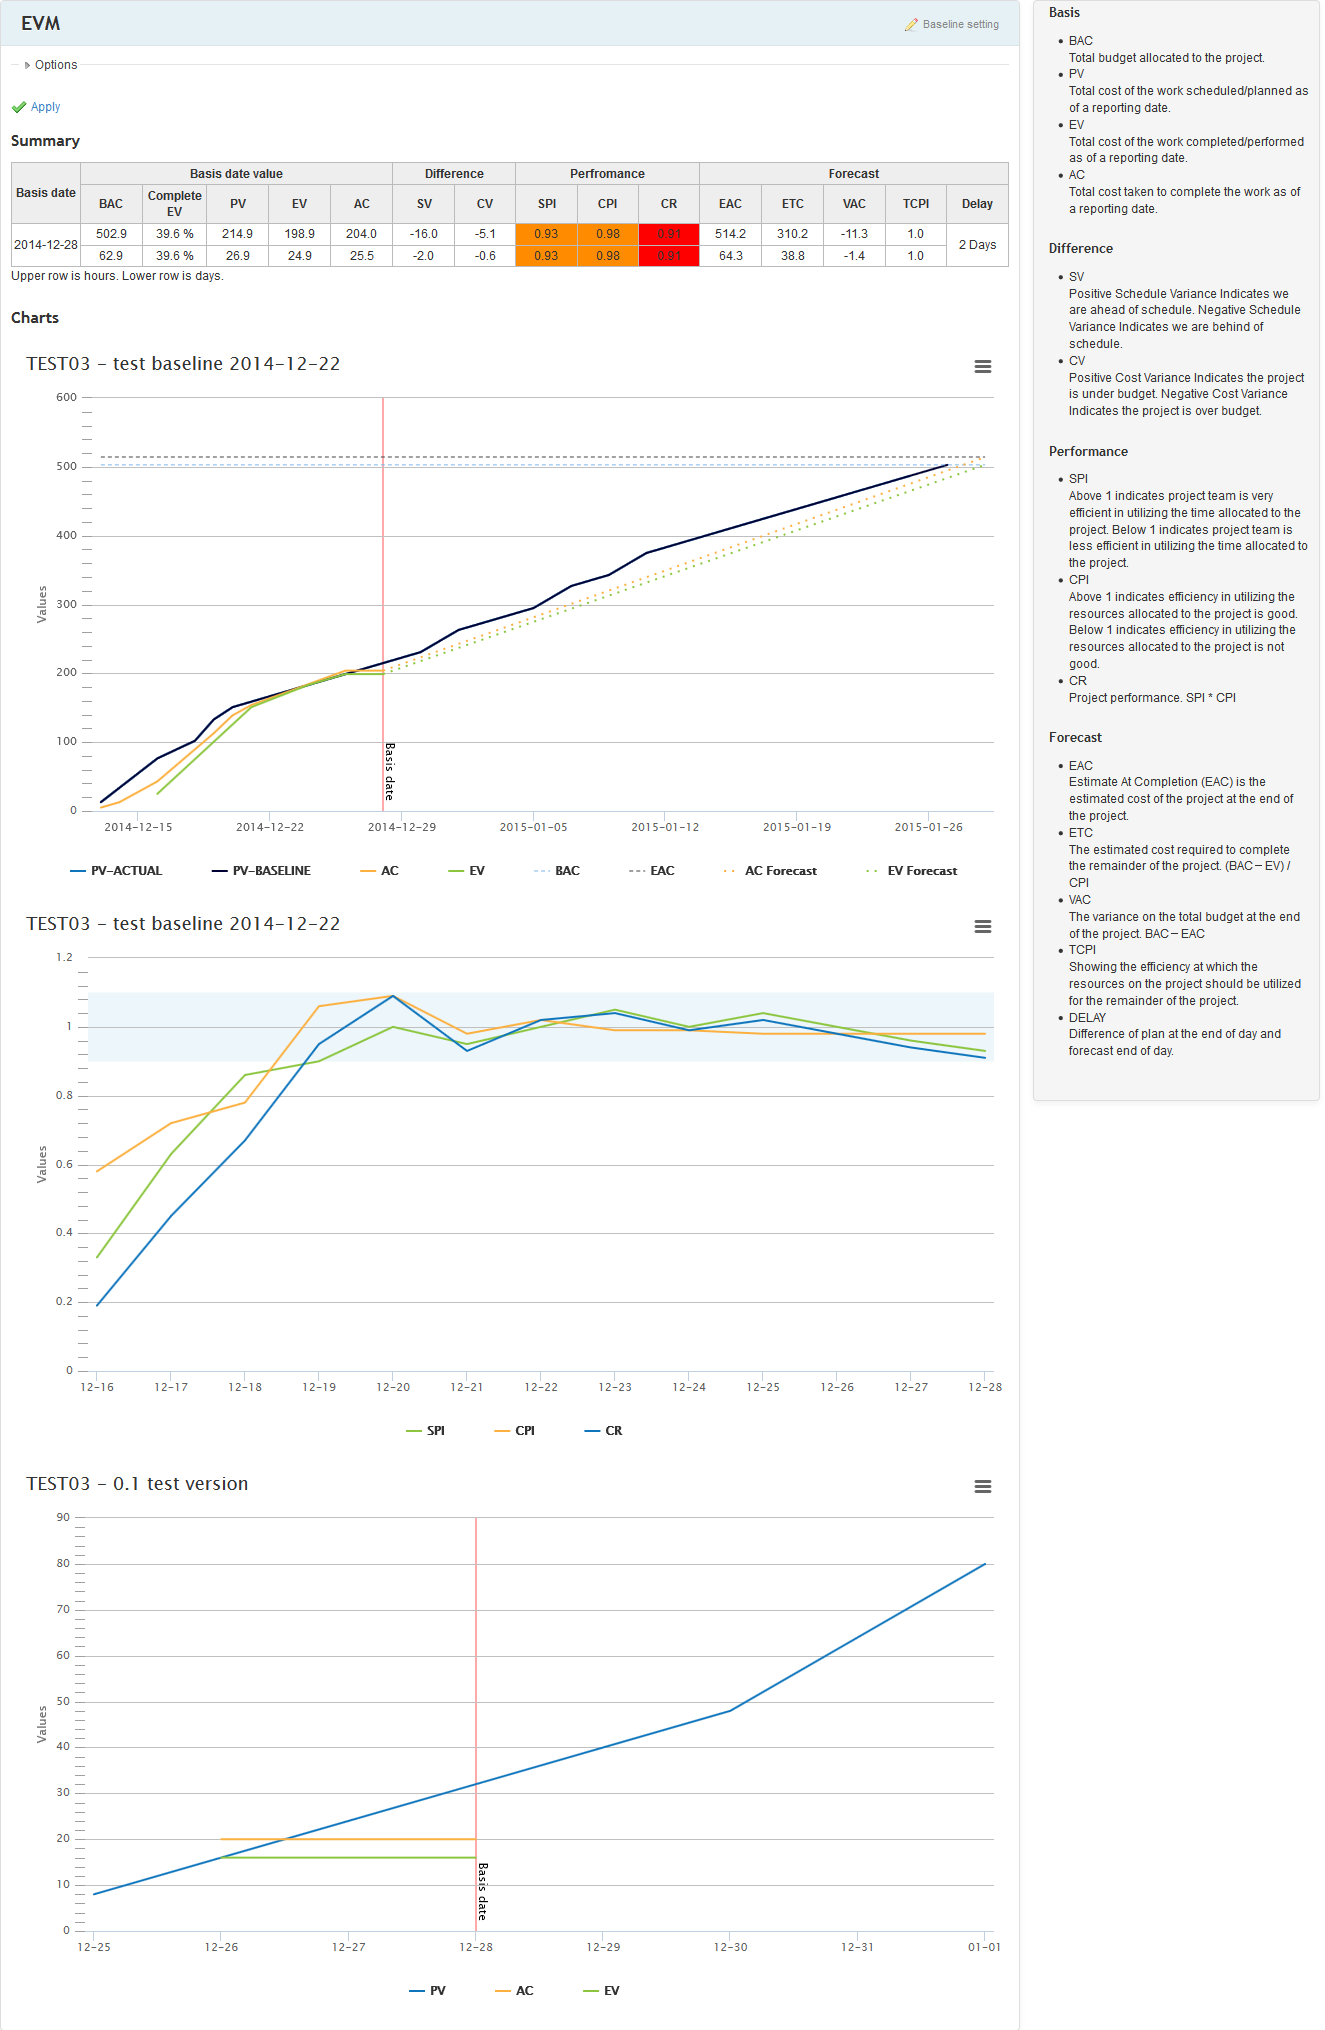
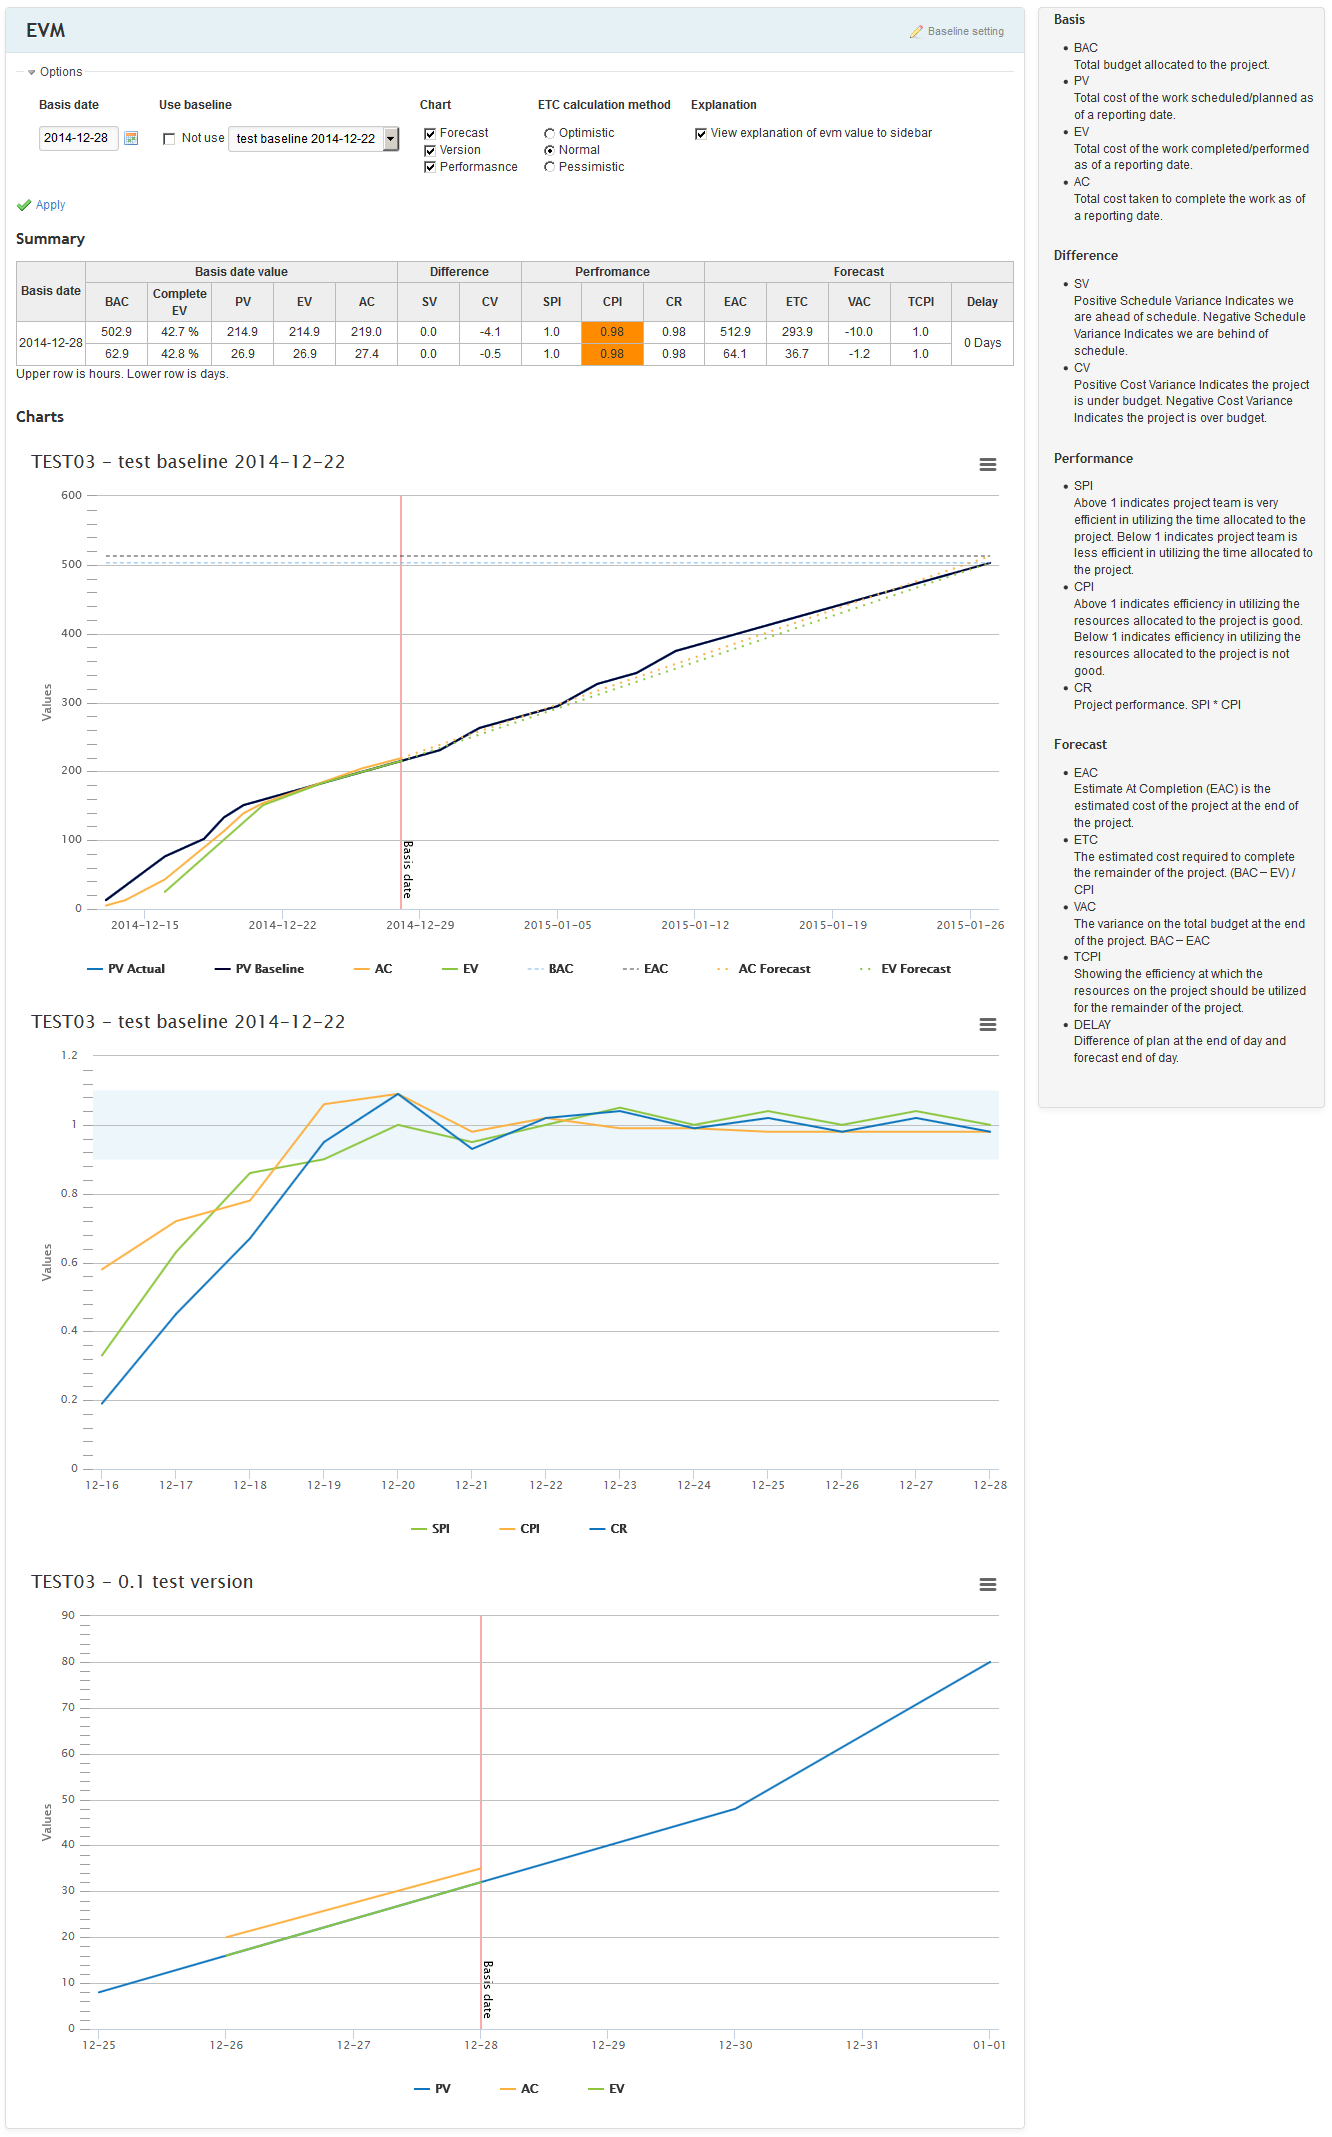
change picture

diff --git a/assets/javascripts/drawchart.js b/assets/javascripts/drawchart.js
@@ -73,12 +73,12 @@ function drawProjectChart(dataToChart, placeholder, nowdate, graphtitle){
             },
             series:[
                 {
-                    name: 'PV-ACTUAL',
+                    name: 'PV Actual',
                     color: '#0f75bc',
                     data: data.planned_value
                 },
                 {
-                    name: 'PV-BASELINE',
+                    name: 'PV Baseline',
                     color: '#000033',
                     data: data.baseline_value
                 },
